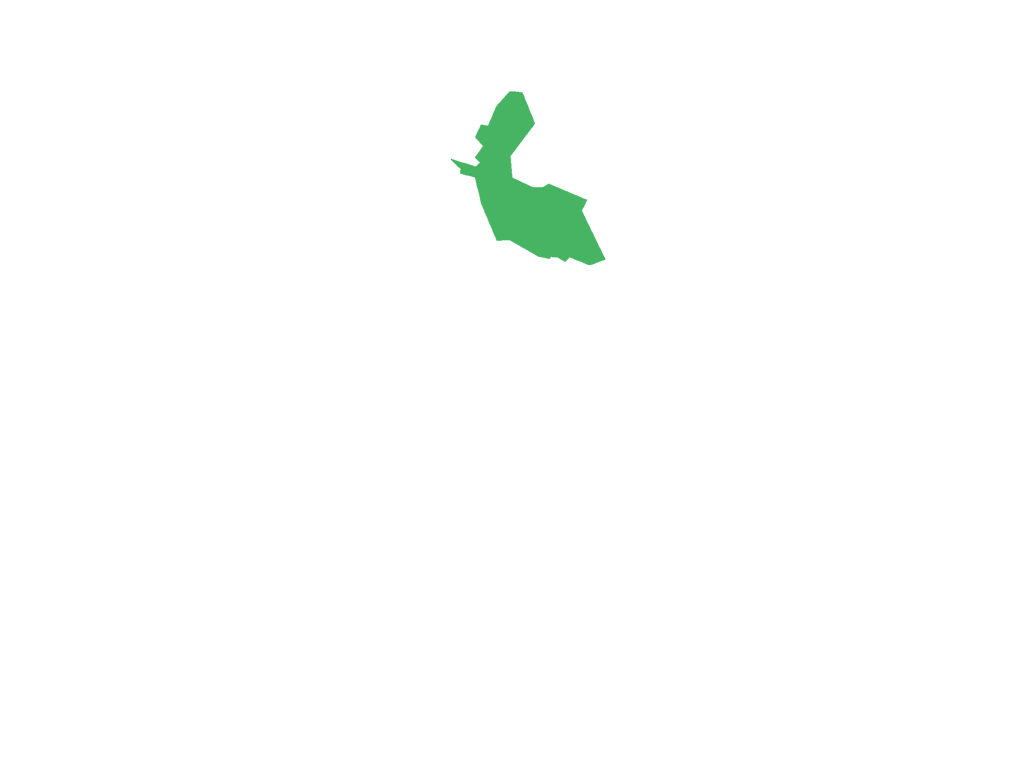
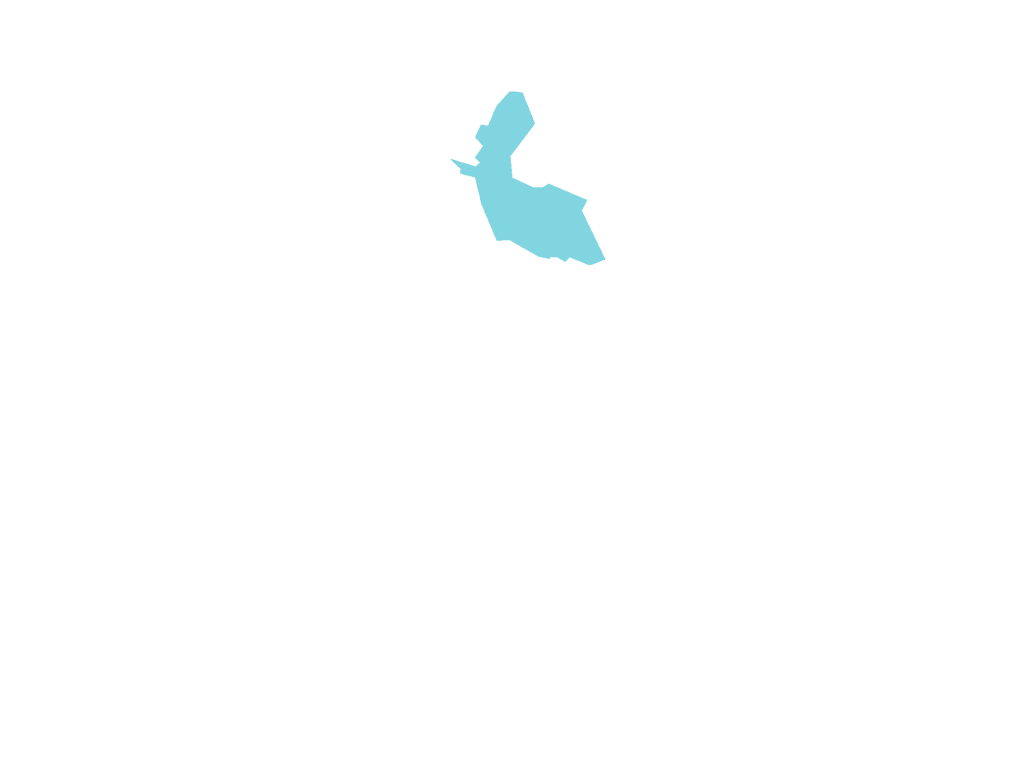
item class

Changed region(s): [[0.4375, 0.125, 0.5938, 0.3438]]

diff --git a/sketch.js b/sketch.js
@@ -8,20 +8,38 @@
  */
 
 
-/**/ //////////////////////////
-//////// VARIABLES
-////////////////////////////*/
+/*
+ *****************************************
+ *****************************************
+ * VARIABLES
+ *****************************************
+ *****************************************
+ */
 
-var img;
+var backgroundImage;
+var detailInfoImage;
+var items = [];
+var itemsCount = 1;
 
-/**/ ///////////////////////////
-///////////////////////////////
-//////// CYCLE LIFE
-///////////////////////////////
-//////////////////////////// */ 
+
+/*
+ *****************************************
+ *****************************************
+ * LYFE CYCLE METHODS
+ *****************************************
+ *****************************************
+ */
 
 function preload() {
-  img = loadImage("assets/images/CDMX_Template_0.png");
+
+  backgroundImage = loadImage("assets/images/CDMX_Template.png");
+  detailInfoImage = loadImage("assets/images/CDMX_Template_Icons.png");
+
+  for (var i = 0; i < itemsCount; i++) {
+    var nameImage = "assets/images/CDMX_Template_" + i + ".png";
+    window['img' + i] = loadImage(nameImage);
+  }
+
 }
 
 function windowResized() {
@@ -31,56 +49,95 @@ function windowResized() {
 
 function setup() {
   createCanvas(displayWidth, displayHeight);
-
+  initialize();
 }
 
 function draw() {
-  
+
   clear();
-  
-  tint(255, 150);
-  
-  //imageMode(CENTER)
-  var correctionX = (windowWidth/2)-(img.width/2);
-  var correctionY = (windowHeight/2)-(img.height/2); 
-  image(img, correctionX, correctionY);
-
-  var currentColor = color(134, 214, 226);
-
-
-
-  var c = img.get(mouseX+(correctionX*-1), mouseY+(correctionY*-1));
-  print(correctionX)
-
-
-  if (colorAlphaTest(c, 5)) {
-
-    textSize(32);
-    text("word", 10, 30);
-  } else {
-
-  }
-
-
-
-
-
-
-
-
-
-
+  drawBackground();
+  drawItems();
 
 }
 
 
+/*
+ *****************************************
+ *****************************************
+ * INITIALIZE METHODS
+ *****************************************
+ *****************************************
+ */
 
-function colorAlphaTest(_c1, _tol) {
+function initialize() {
+  initializeBackground();
+  initializeItems();
+}
 
 
-  if (red(_c1) + green(_c1) + blue(_c1) <= 1) {
-    return false;
-  } else {
-    return true;
+/**/ ///////////////////////////
+///////////////////////////////
+//////// BACKGROUND METHODS
+///////////////////////////////
+//////////////////////////// */ 
+
+function initializeBackground() {
+
+}
+
+function drawBackground() {
+  var correctionX = (windowWidth / 2) - (backgroundImage.width / 2);
+  var correctionY = (windowHeight / 2) - (backgroundImage.height / 2);
+  image(backgroundImage,correctionX, correctionY);
+}
+
+
+
+
+
+/*
+ *****************************************
+ *****************************************
+ * ITEMS METHODS
+ *****************************************
+ *****************************************
+ */
+
+
+function initializeItems() {
+  //itemsJSON.data.length
+  /*
+  canvasW = itemsJSON.data.length * 200 * sizeScale;
+  generalCanvasX = 0;
+  for (var i = 0; i < itemsJSON.data.length; i++) {
+    //var positionX = map(int(itemsJSON.data[i].year), -400, 2020, 0, 2020 * 3);
+    items.push(new Item(200 * i, windowHeight / 2, 100, 100, sizeScale, posX, posY,
+      itemsJSON.data[i].name,
+      itemsJSON.data[i].projectName,
+      itemsJSON.data[i].year,
+      itemsJSON.data[i].link,
+      itemsJSON.data[i].tag,
+      i));
+  }*/
+
+  for (var i = 0; i < itemsCount; i++) {
+    items.push(new Item(i,
+      100,
+      100,
+      110,
+      "Álvaro Obregón",
+      window['img' + i],
+      detailInfoImage,
+      color(167, 225, 234), [20, 20, 20, 20, 20]));
+
+  }
+
+}
+
+
+function drawItems() {
+  for (var i = 0; i < itemsCount; i++) {
+    items[i].update();
+    items[i].display();
   }
 }

diff --git a/item.js b/item.js
@@ -1,0 +1,137 @@
+function Item(_id, _x, _y, _voluntaryNumber, _nameItem, _img, _imgIcons, _currentColor, _mobility) {
+  /*
+   *****************************************
+   *****************************************
+   * VARIABLES
+   *****************************************
+   *****************************************
+   */
+
+  this.id = _id;
+  this.x = _x;
+  this.y = _y;
+  this.voluntaryNumber = _voluntaryNumber;
+  this.nameItem = _nameItem;
+  this.img = _img;
+  this.imgIcons = _imgIcons;
+  this.currentColor = _currentColor;
+  this.mobility = _mobility;
+  this.voluntaryMaxNumber = 150;
+  this.overBox = false;
+  this.alphaValue = alphaValue = (this.voluntaryNumber / this.voluntaryMaxNumber) * 255.0;
+
+
+
+  /*
+   *****************************************
+   *****************************************
+   * LYFE CYCLE METHODS
+   *****************************************
+   *****************************************
+   */
+
+  this.display = function() {
+    tint(255, this.alphaValue);
+
+
+    var correctionX = (windowWidth / 2) - (this.img.width / 2);
+    var correctionY = (windowHeight / 2) - (this.img.height / 2);
+    image(this.img, correctionX, correctionY);
+
+
+    var c = this.img.get(mouseX + (correctionX * -1), mouseY + (correctionY * -1));
+
+    if (this.colorAlphaTest(c, 5)) {
+      this.displayInfo();
+    }
+
+
+  }
+
+
+  this.update = function() {
+
+  }
+
+  this.displayInfo = function() {
+    //textSize(32);
+    text("word", 10, 30);
+
+
+    var posX = 10;
+    var posY = 180;
+    noStroke();
+    fill(red(this.currentColor), green(this.currentColor), blue(this.currentColor), 255);
+
+    textAlign(LEFT, CENTER);
+
+    // Name
+    textSize(24);
+    var s = this.nameItem;
+    var sw = textWidth(s);
+    text(s, windowWidth - posX - 50 - sw, windowHeight - posY);
+
+    // Icons
+    image(this.imgIcons, windowWidth - posX - 50 - sw, windowHeight - posY + 20, this.imgIcons.width, this.imgIcons.height);
+
+
+    
+    // Rects Walk
+    rect(windowWidth - posX - 50 + 25 - sw, windowHeight - posY + 27, 150, 15);
+    // Rects Car
+    rect(windowWidth - posX - 50 + 25 - sw, windowHeight - posY + 47, 150, 15);
+    // Rects Bicy
+    rect(windowWidth - posX - 50 + 25 - sw, windowHeight - posY + 67, 150, 15);
+    // Rects Metro
+    rect(windowWidth - posX - 50 + 25 - sw, windowHeight - posY + 87, 150, 15);
+    // Rects Moto
+    rect(windowWidth - posX - 50 + 25 - sw, windowHeight - posY + 107, 150, 15);
+    
+    
+    // Scale
+    textAlign(RIGHT, CENTER);
+    fill(0, 255);
+    textSize(10);
+    var s = this.nameItem;
+    text("100%", windowWidth - posX - 50 + 25 - sw +150, windowHeight - posY + 127);
+    
+    
+    /*
+    // Cluster
+     textSize(18);
+     String s1 = "Cluster: " + str(centroidIndex);
+     text(s1, width-10, height-80);
+     */
+    // Category Count
+
+
+
+
+
+    stroke(red(this.currentColor), green(this.currentColor), blue(this.currentColor), 255);
+    //Line 
+    line(this.x, this.y, windowWidth - posX - 50 - sw, windowHeight - posY);
+
+  }
+
+
+
+  this.colorAlphaTest = function(_c1, _tol) {
+    if (red(_c1) + green(_c1) + blue(_c1) <= 1) {
+      return false;
+    } else {
+      return true;
+    }
+  }
+
+
+
+
+
+
+
+
+
+
+
+}

diff --git a/index.html b/index.html
@@ -1,17 +1,29 @@
 <!DOCTYPE html>
 <html>
-  <head>
-    <meta charset="UTF-8">
-    <title>Voluntarios | Verificado19S</title>
-    <script src="libraries/p5.js" type="text/javascript"></script>
 
-    <script src="libraries/p5.dom.js" type="text/javascript"></script>
-    <script src="libraries/p5.sound.js" type="text/javascript"></script>
+<head>
+  <meta charset="UTF-8">
+  <title>Voluntarios | Verificado19S</title>
+  <script src="libraries/p5.js" type="text/javascript"></script>
 
-    <script src="sketch.js" type="text/javascript"></script>
+  <script src="libraries/p5.dom.js" type="text/javascript"></script>
+  <script src="libraries/p5.sound.js" type="text/javascript"></script>
+  <script src="item.js" type="text/javascript"></script>
+  <script src="sketch.js" type="text/javascript"></script>
 
-    <style> body {padding: 0; margin: 0;} canvas {vertical-align: top;} </style>
-  </head>
-  <body>
-  </body>
+  <style>
+    body {
+      padding: 0;
+      margin: 0;
+    }
+    
+    canvas {
+      vertical-align: top;
+    }
+  </style>
+</head>
+
+<body>
+</body>
+
 </html>
